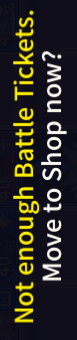
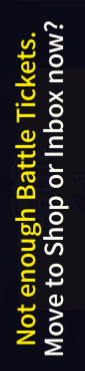
Update not enough tickets dialog

Changed region(s): [[0.1558, 0.0294, 0.8831, 0.9706]]

diff --git a/GameManager.py b/GameManager.py
@@ -71,11 +71,6 @@ class GameManager:
         elif self.screen.screenType == ScreenType.BATTLE_REFRESH_RESET:
             self.Log("OK")
             self.device.Touch(784, 357)
-        elif self.screen.screenType == ScreenType.NOT_ENOUGH_TICKETS:
-            self.Log("Go to Mysterious Sanctuary...")
-            self.gameState = GameState.MYSTERIOUS_SANCTUARY
-            self.device.Touch(788, 471)
-            self.device.Touch(40, 48)
         elif self.screen.screenType == ScreenType.DIALOG_PURCHASE_COMPLETE:
             self.Log("Close dialog. Go to battle...")
             self.gameState = GameState.PROMOTION_BATTLE
@@ -644,6 +639,10 @@ class GameManager:
             self.device.Touch(784, 356)
         elif self.screen.screenType == ScreenType.MYSTERIOUS_SANCTUARY_LOSE:
             self.device.Touch(788, 472)
+        elif self.screen.screenType == ScreenType.NOT_ENOUGH_TICKETS:
+            self.Log("Go to Mysterious Sanctuary...")
+            self.gameState = GameState.MYSTERIOUS_SANCTUARY
+            self.device.Touch(463, 104)
         else:
             self.Log("Idle")
 
